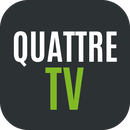
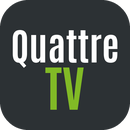
QuattreTV tal cual en el portal y en el icono, para verlo y decidir
Se quita la conversion a mayusculas del portal, que era lo que hacia que dentro
se leyera distinto que en el icono. Ahora los dos ponen QuattreTV, con Quattre
en blanco y TV en verde.

Changed region(s): [[0.0923, 0.2154, 0.9231, 0.5231]]

diff --git a/templates/stb/portal.html b/templates/stb/portal.html
@@ -405,7 +405,7 @@
 
     function renderMenu() {
         var h = '<div class="panel">';
-        h += '<div class="header"><div class="logo">QUATTRE<span> TV</span></div></div>';
+        h += '<div class="header"><div class="logo">Quattre<span>TV</span></div></div>';
         h += '<div class="list">';
         for (var i = 0; i < MENU.length; i++) {
             var cls = (i === menuIdx) ? "item sel" : "item";
@@ -699,7 +699,7 @@
         view = "list";
         var ch = channels[currentChannel];
         var h = '<div class="panel">';
-        h += '<div class="header"><div class="logo">QUATTRE<span> TV</span></div>';
+        h += '<div class="header"><div class="logo">Quattre<span>TV</span></div>';
         var etiqueta = channels.length + ' canales';
         if (favOnly) etiqueta = 'Favoritos: ' + channels.length;
         else if (genreFilter) etiqueta = generoActual() + ': ' + channels.length;
@@ -1262,7 +1262,7 @@
         .logo {
             font-family: Antonio, 'Segoe UI', Arial, sans-serif;
             font-size: 46px; font-weight: 700; color: #fff;
-            text-transform: uppercase; letter-spacing: 1px; line-height: 1;
+            letter-spacing: .5px; line-height: 1;
         }
         .logo span { color: #81ba26; }
         .counter {
@@ -1432,7 +1432,7 @@
     <video id="html5video" autoplay playsinline style="position:fixed;top:11.1%;left:39%;width:58.9%;height:58.9%;z-index:2;border-radius:14px;display:none;"></video>
     <div id="preview"></div>
     <div id="preview-cap"></div>
-    <div id="content" style="position:relative;z-index:10;"><div class="panel" style="text-align:center;padding:60px 40px;"><div class="logo">QUATTRE<span> TV</span></div><div style="color:#9ba3a8;margin-top:20px;">Cargando canales...</div></div></div>
+    <div id="content" style="position:relative;z-index:10;"><div class="panel" style="text-align:center;padding:60px 40px;"><div class="logo">Quattre<span>TV</span></div><div style="color:#9ba3a8;margin-top:20px;">Cargando canales...</div></div></div>
     <div id="osd"></div>
     <div id="vol" style="z-index:20;"></div>
     <div id="toast"></div>
